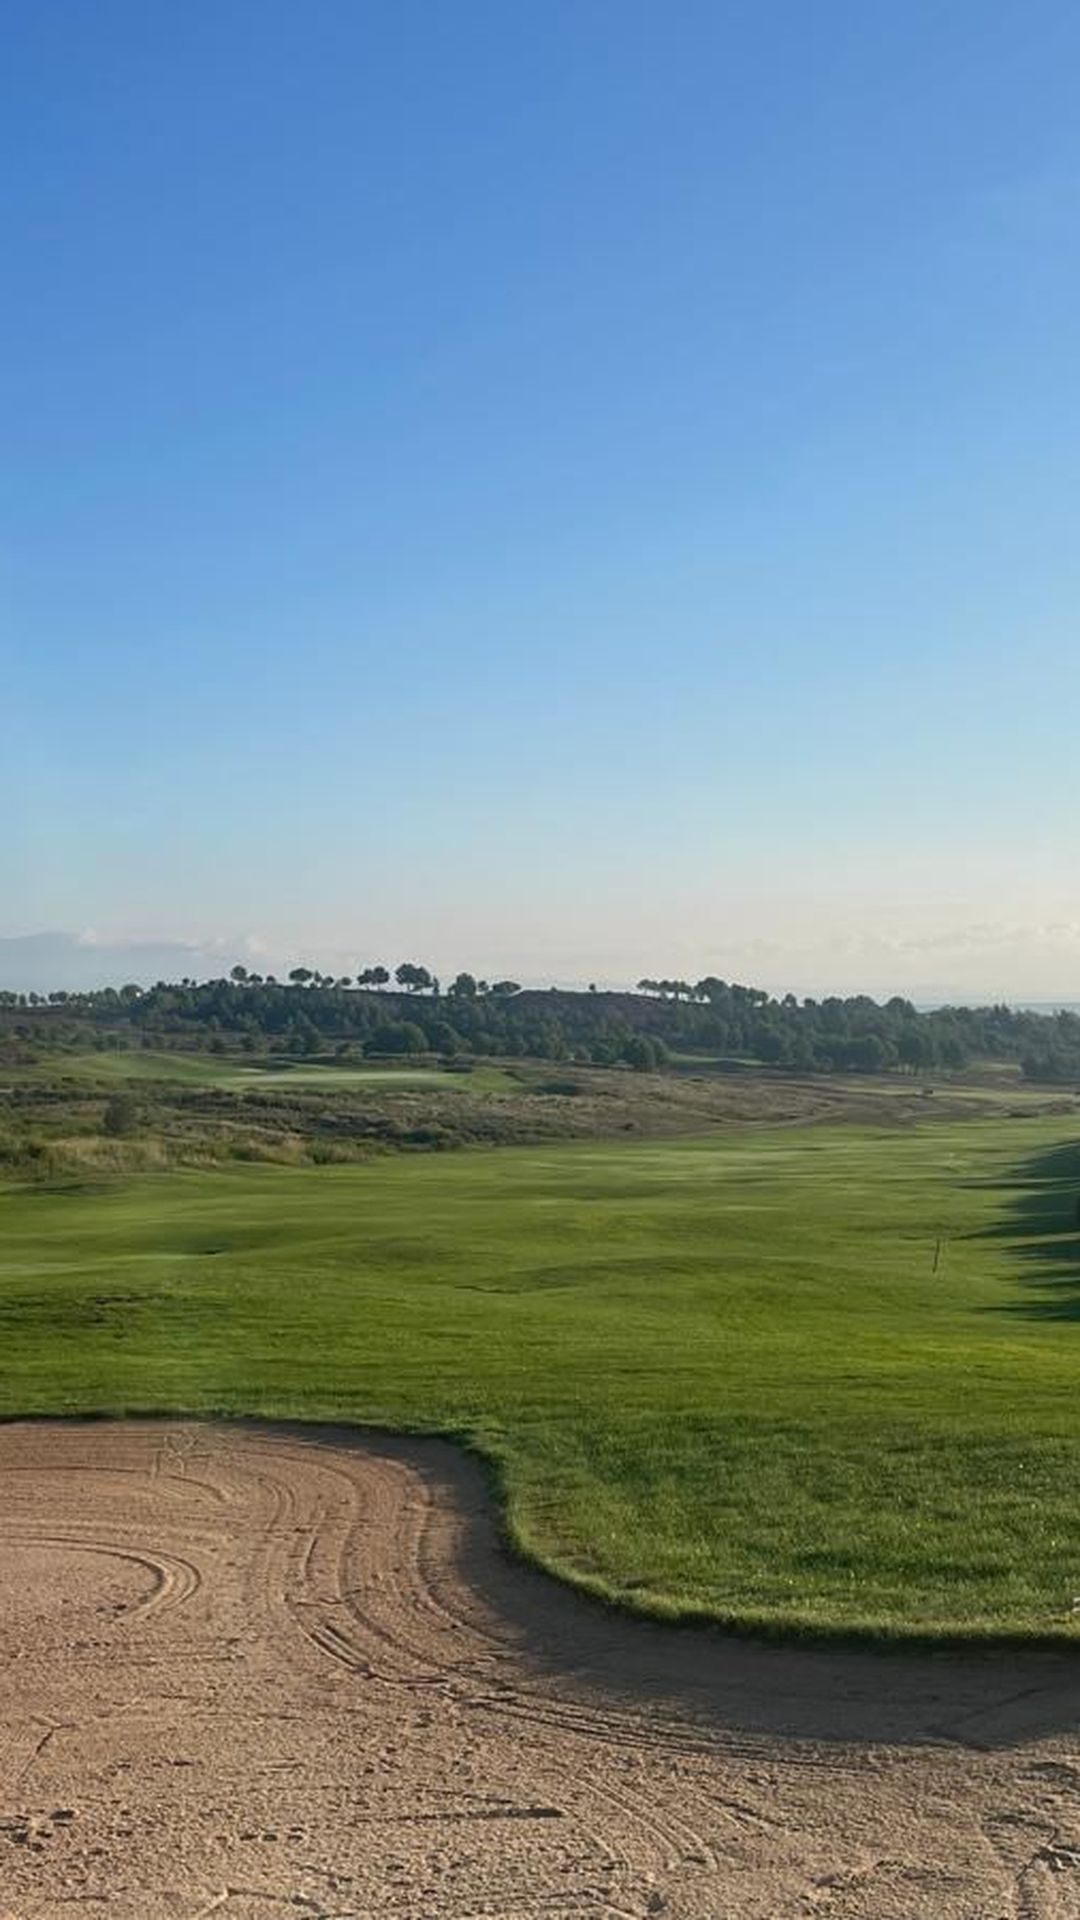
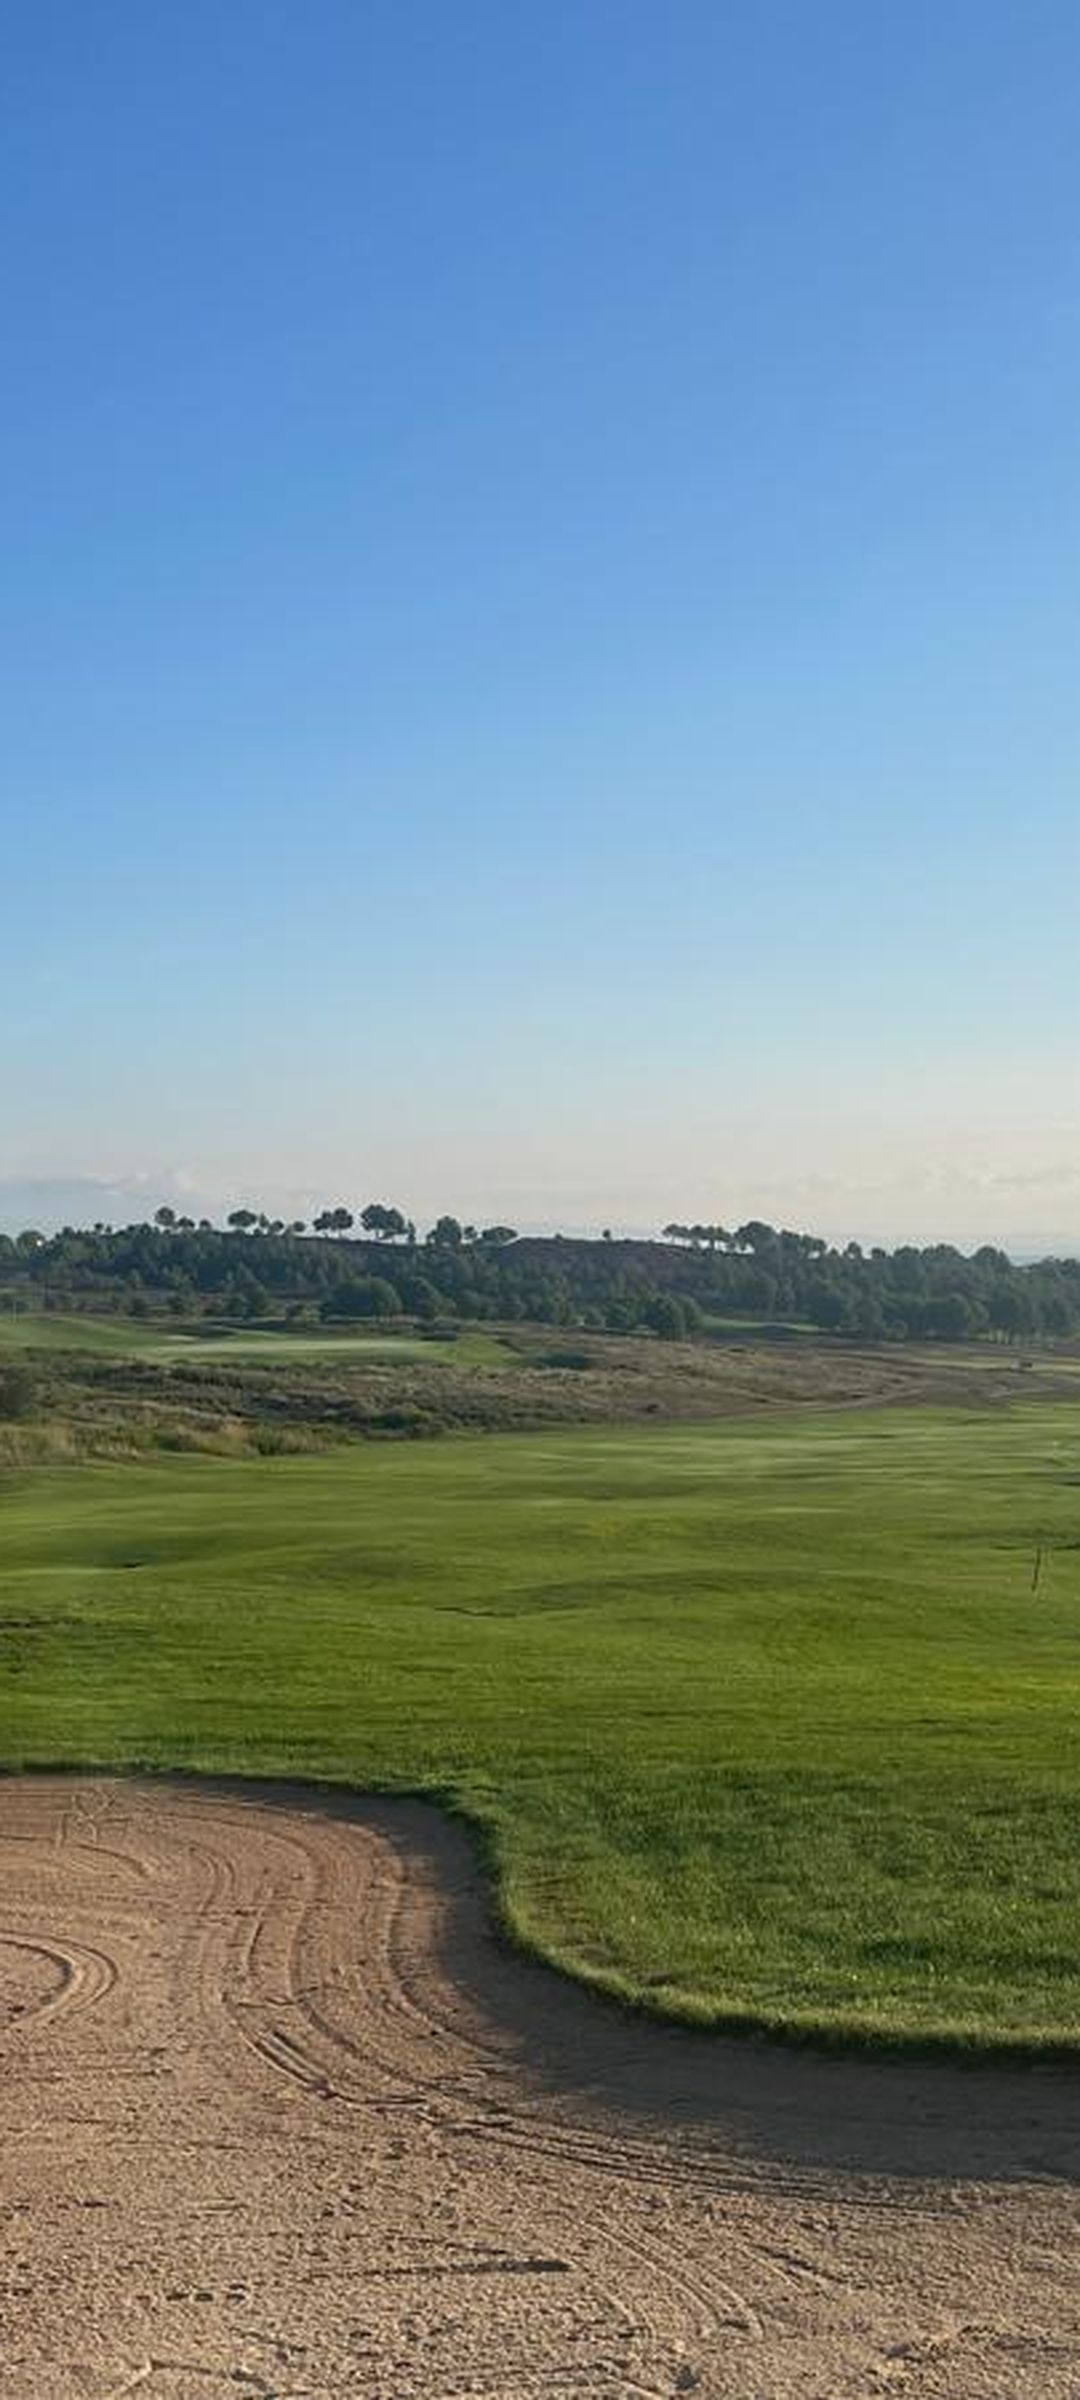
v1.34.175 — Fotos portrait 9:20 (1080x2400) optimizadas iPhone
v1.34.175 — Fotos portrait 9:20 (1080x2400) optimizadas iPhone

Resolucion del "encuadre muy cercano" / "cortado arriba-abajo"
reportado en iPhone.

Causa: las fotos 1080x1920 (9:16, ratio 0.56) eran mas estrechas
que el iPhone 14/15 (ratio 0.46). El background-size:cover
hacia zoom para llenar el alto y recortaba lados arriba/abajo.

Solucion combinada:

1. RE-RECORTAR FOTOS desde originales en alta resolucion a
   1080x2400 (ratio 9:20 = 0.45), casi identico al iPhone.
   Focal vertical ajustado por foto (0.55-0.70) para priorizar
   el contenido golf (greens, fairway) sobre el cielo.

2. CSS: background-position cambiado de 'center center' a
   'center 70%'. Cuando hay que recortar en pantallas con
   ratio distinto, recorta cielo (poco importante) en lugar
   de fairway/green (sujeto principal).

5 fotos optimizadas, total 1.85 MB.

diff --git a/index.html b/index.html
@@ -73,7 +73,7 @@
 /* Independiente del modo (claro/oscuro) - foto siempre visible.    */
 /* ════════════════════════════════════════════════════════════════ */
 .auth-login-photo{
-  background:#1a3a5f center center / cover no-repeat;
+  background:#1a3a5f center 70% / cover no-repeat;
   padding:0 !important;
   display:flex;
   flex-direction:column;
@@ -84,6 +84,9 @@
 }
 /* v1.34.174: Fix critico - .auth-login-photo no debe sobreescribir el .hidden con display:none.
    Sin !important, .auth-screen.hidden gana correctamente al ocultarse tras login exitoso. */
+/* v1.34.175: fotos en formato portrait 9:20 (1080x2400) optimizadas para iPhone.
+   background-position 'center 70%' prioriza mostrar la parte inferior de la foto
+   (greens, fairway, agua) por encima del cielo cuando hay que recortar. */
 /* v1.34.173: la foto se asigna por JS desde un set aleatorio (login-bg-1..N.jpg) */
 /* Overlay degradado para legibilidad del texto blanco */
 .login-bg-overlay{
@@ -1148,7 +1151,7 @@ nav.nav-hidden{transform:translateY(100%)}
       <div class="auth-link" style="margin-top:10px;font-size:10px"><span onclick="showAuth('reset')" data-i18n="olvidaste_pass">¿Olvidaste tu contraseña?</span></div>
     </div>
 
-    <div class="login-version">v1.34.174</div>
+    <div class="login-version">v1.34.175</div>
   </div>
 </div>
 
@@ -1389,7 +1392,7 @@ nav.nav-hidden{transform:translateY(100%)}
       <svg viewBox="0 0 24 24" style="width:12px;height:12px;stroke:currentColor;fill:none;stroke-width:2"><path d="M3 9l9-7 9 7v11a2 2 0 0 1-2 2H5a2 2 0 0 1-2-2z"/><polyline points="9 22 9 12 15 12 15 22"/></svg>
       <span data-i18n="gestionar_campos">Gestionar Campos</span>
     </button>
-    <div id="version-tap" style="margin-left:auto;font-size:9px;letter-spacing:2px;color:rgba(255,255,255,.2);font-family:'DM Mono',monospace" class="version-label">v1.34.174</div>
+    <div id="version-tap" style="margin-left:auto;font-size:9px;letter-spacing:2px;color:rgba(255,255,255,.2);font-family:'DM Mono',monospace" class="version-label">v1.34.175</div>
   </div>
 </div>
 
@@ -8847,8 +8850,8 @@ function contactarGolfHCP() {
   const ios = ua.match(/iPhone OS ([\d_]+)/);
   const android = ua.match(/Android ([\d.]+)/);
   const sys = ios ? 'iOS ' + ios[1].replace(/_/g,'.') : android ? 'Android ' + android[1] : 'Web';
-  const appVer = document.title.includes('HCP') ? 'v1.34.174' : 'Golf HCP';
-  const body = encodeURIComponent('Hola,\n\n[Escribe tu consulta aqui]\n\n\n-- \nGolf HCP v1.34.174\n' + sys);
+  const appVer = document.title.includes('HCP') ? 'v1.34.175' : 'Golf HCP';
+  const body = encodeURIComponent('Hola,\n\n[Escribe tu consulta aqui]\n\n\n-- \nGolf HCP v1.34.175\n' + sys);
   window.open('mailto:golf.hcp.webmaster@gmail.com?subject=Golf%20HCP%20App&body=' + body, '_blank');
 }
 
